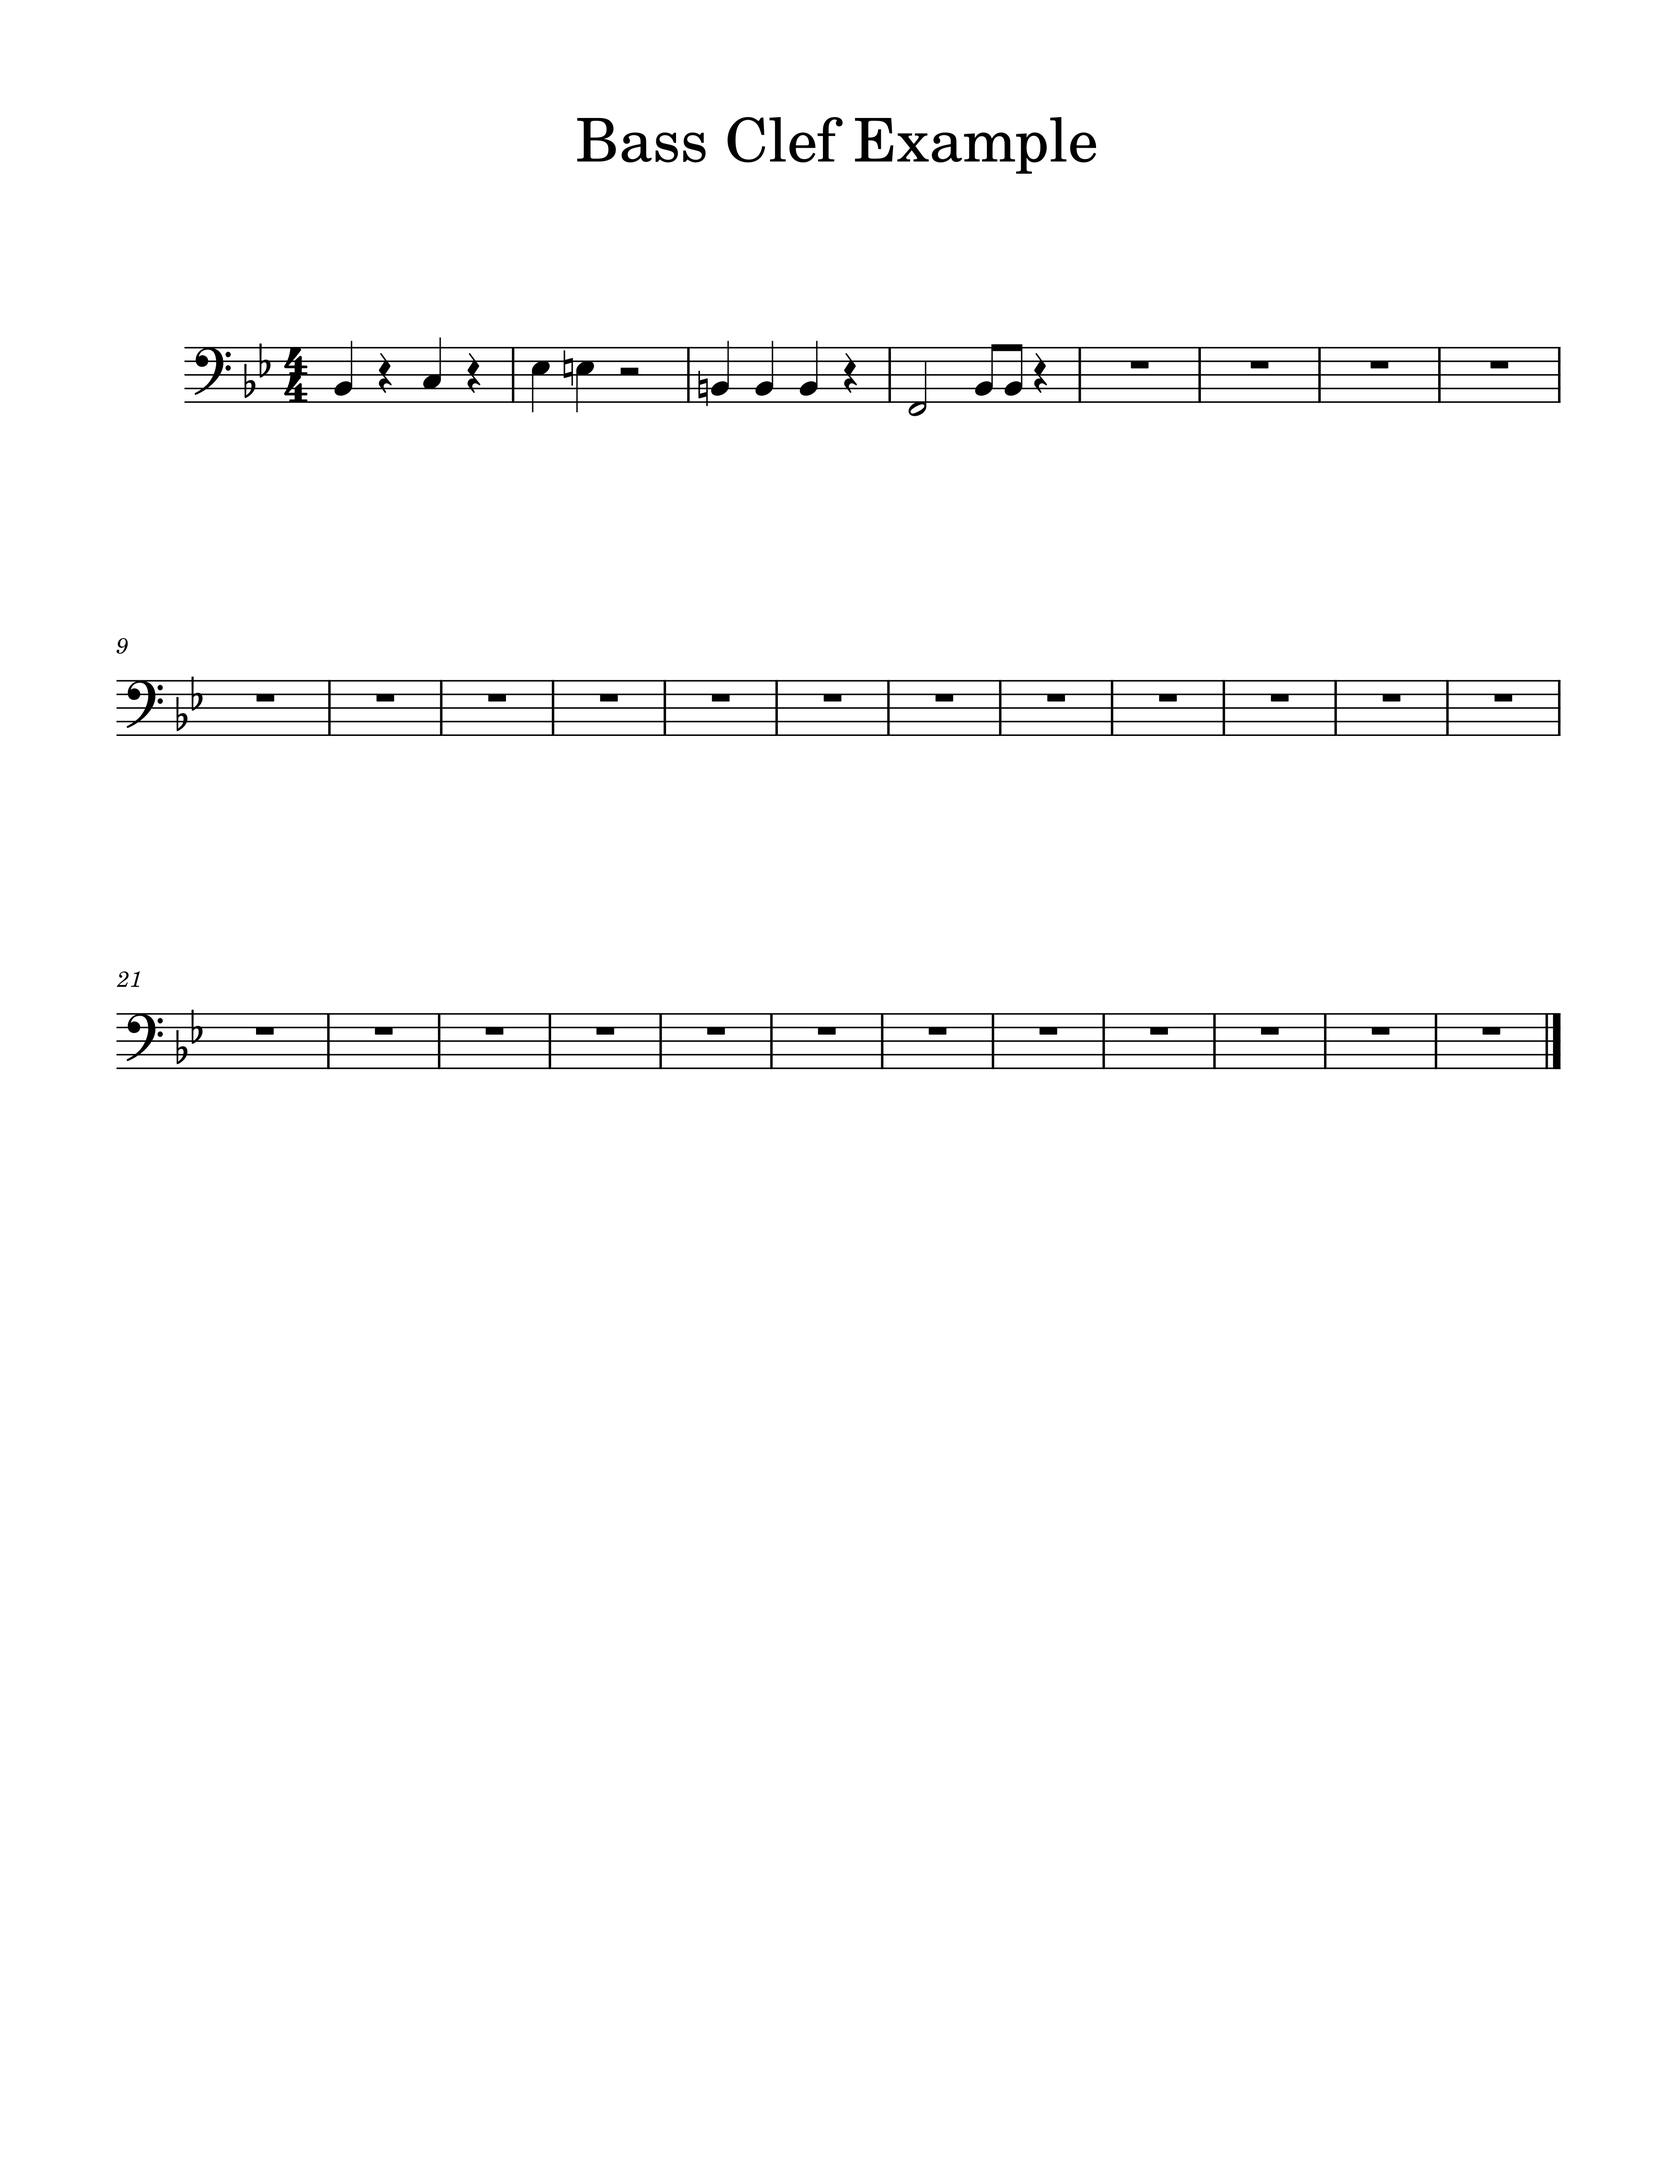
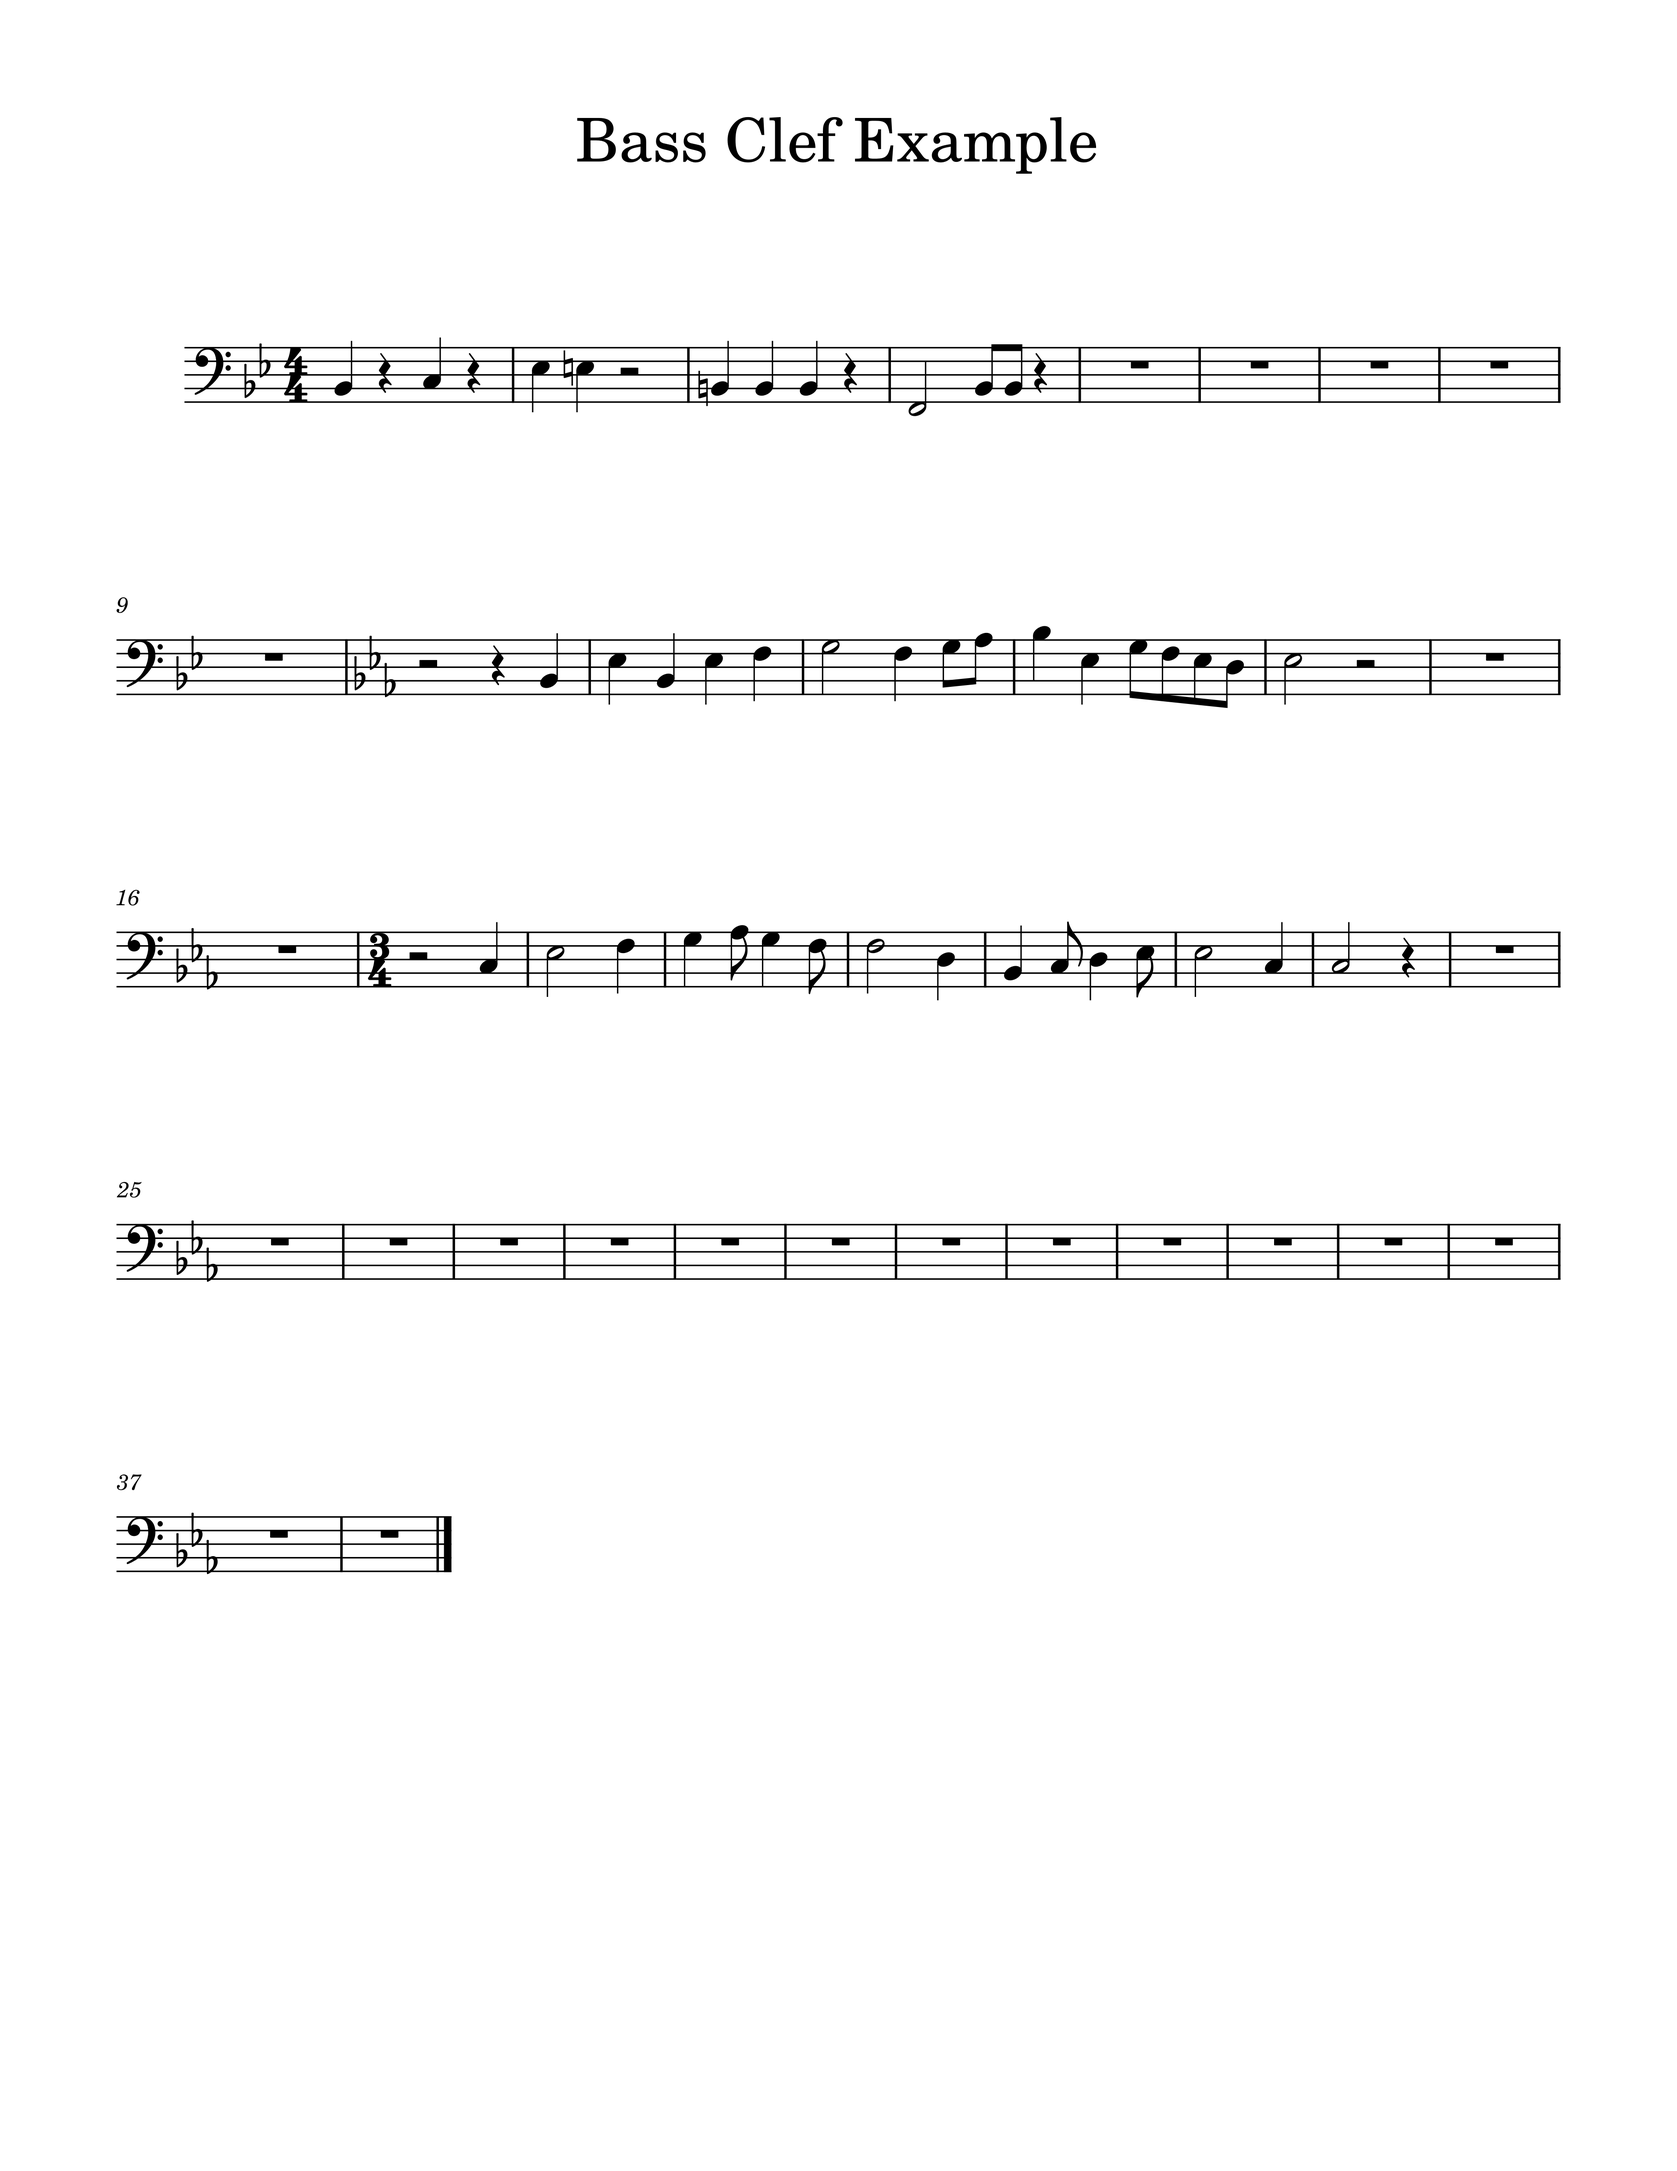
add example sheets and images

diff --git a/README.md b/README.md
@@ -20,3 +20,7 @@ The output file will be located under the `data/music-xmls/` dir, and will be na
  - `rescaleOutput.png`
  - `removeLineOutput.png`
  - `testOutput.png`
+
+### Provided Examples
+
+Two examples are provided each with a 600dpi and 450dpi png stored under the `data/images/` dir, as well as the source for each stored under the `data/music-xmls/` dir. Note: `TemplateSheet` is not an example but is the original source of the templates used for template matching.
